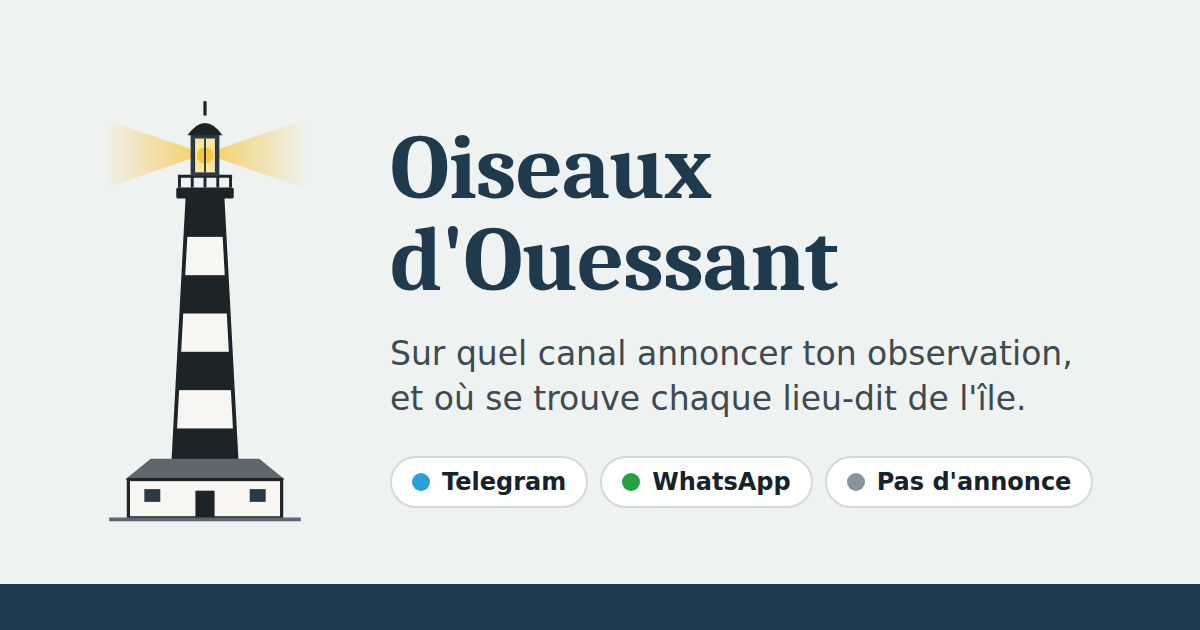
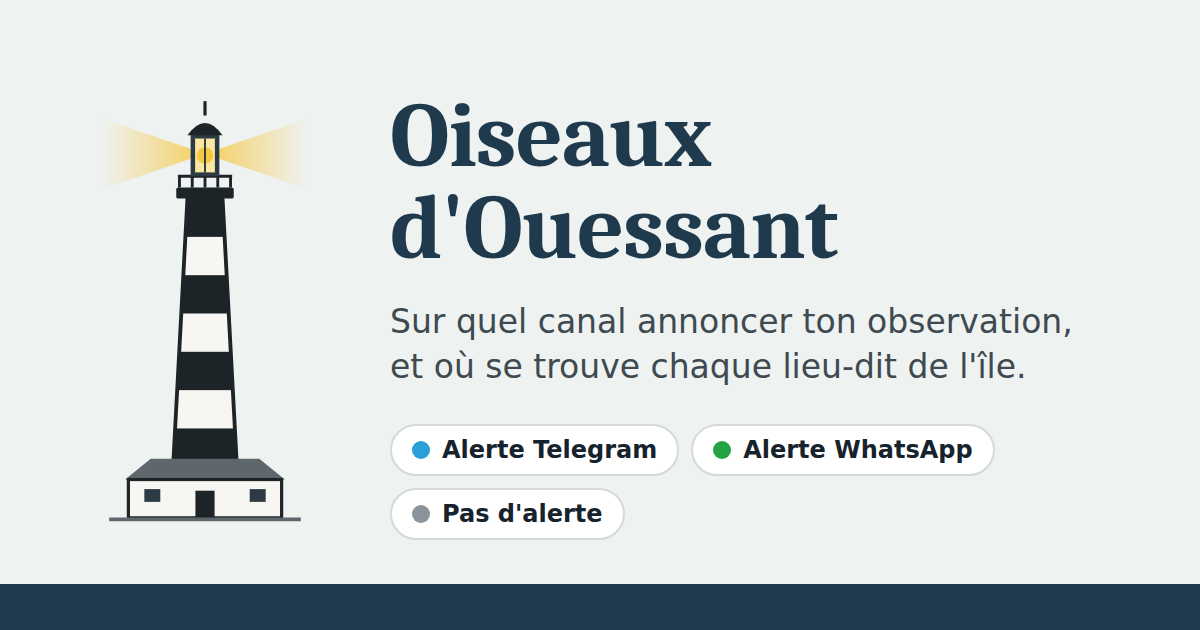
Add files via upload

Changed region(s): [[0.3083, 0.1508, 0.8942, 0.8746]]

diff --git a/index.html b/index.html
@@ -325,7 +325,7 @@ section[hidden]{display:none}
       importText: "La liste n'a pas pu être téléchargée depuis GitHub sur cette page. Importe le fichier <em>ouessant_birds.json</em> depuis ton ordinateur ou ton téléphone : il restera enregistré dans ce navigateur.",
       importBtn: 'Importer le fichier JSON', importOther: 'Importer un autre fichier JSON',
       badFile: "Ce fichier n'est pas lisible. Il doit contenir une liste d'espèces avec au moins les champs « Nom Français », « Nom Scientifique » et « Proposition de Canal de Diffusion Ouessant ».",
-      channels: { telegram: 'Telegram', whatsapp: 'WhatsApp', none: "Pas d'annonce", unknown: 'Non renseigné' },
+      channels: { telegram: 'Alerte Telegram', whatsapp: 'Alerte WhatsApp', none: "Pas d'alerte", unknown: 'Non renseigné' },
       tabBirds: 'Oiseaux', tabPlaces: 'Lieux', tabWhere: 'Où suis-je ?',
       ledeWhere: 'Trouve les 5 lieux-dits les plus proches de ta position.',
       locateBtn: 'Me localiser', relocateBtn: 'Actualiser ma position',
@@ -402,7 +402,7 @@ section[hidden]{display:none}
       importText: 'The list could not be downloaded from GitHub on this page. Import the <em>ouessant_birds.json</em> file from your computer or phone: it will stay saved in this browser.',
       importBtn: 'Import the JSON file', importOther: 'Import another JSON file',
       badFile: 'This file cannot be read. It must contain a list of species with at least the fields “Nom Français”, “Nom Scientifique” and “Proposition de Canal de Diffusion Ouessant”.',
-      channels: { telegram: 'Telegram', whatsapp: 'WhatsApp', none: 'No report needed', unknown: 'Not specified' },
+      channels: { telegram: 'Telegram alert', whatsapp: 'WhatsApp alert', none: 'No alert', unknown: 'Not specified' },
       tabBirds: 'Birds', tabPlaces: 'Places', tabWhere: 'Where am I?',
       ledeWhere: 'Find the 5 place names closest to where you are.',
       locateBtn: 'Locate me', relocateBtn: 'Update my position',
@@ -546,7 +546,8 @@ section[hidden]{display:none}
     fuse = new Fuse(birds, { keys:[K_FR, K_SCI, K_EN], threshold:0.2, ignoreLocation:true });
     counts = {};
     birds.forEach(b => { const c = canalOf(b); counts[c] = (counts[c]||0)+1; });
-    channels = Object.keys(counts).sort((a,b) => a.localeCompare(b,'fr'));
+    const RANK = { telegram: 0, whatsapp: 1, none: 2 };   // ordre : du plus rare au plus courant
+    channels = Object.keys(counts).sort((a,b) => ((RANK[canalKind(a)] ?? 3) - (RANK[canalKind(b)] ?? 3)) || a.localeCompare(b,'fr'));
     colorOf = {}; channels.forEach((c,i) => colorOf[c] = CHANNEL_COLORS[canalKind(c)] || COLORS[i % COLORS.length]);
     if (activeChannel && !counts[activeChannel]) activeChannel = null;
     q.disabled = false;
